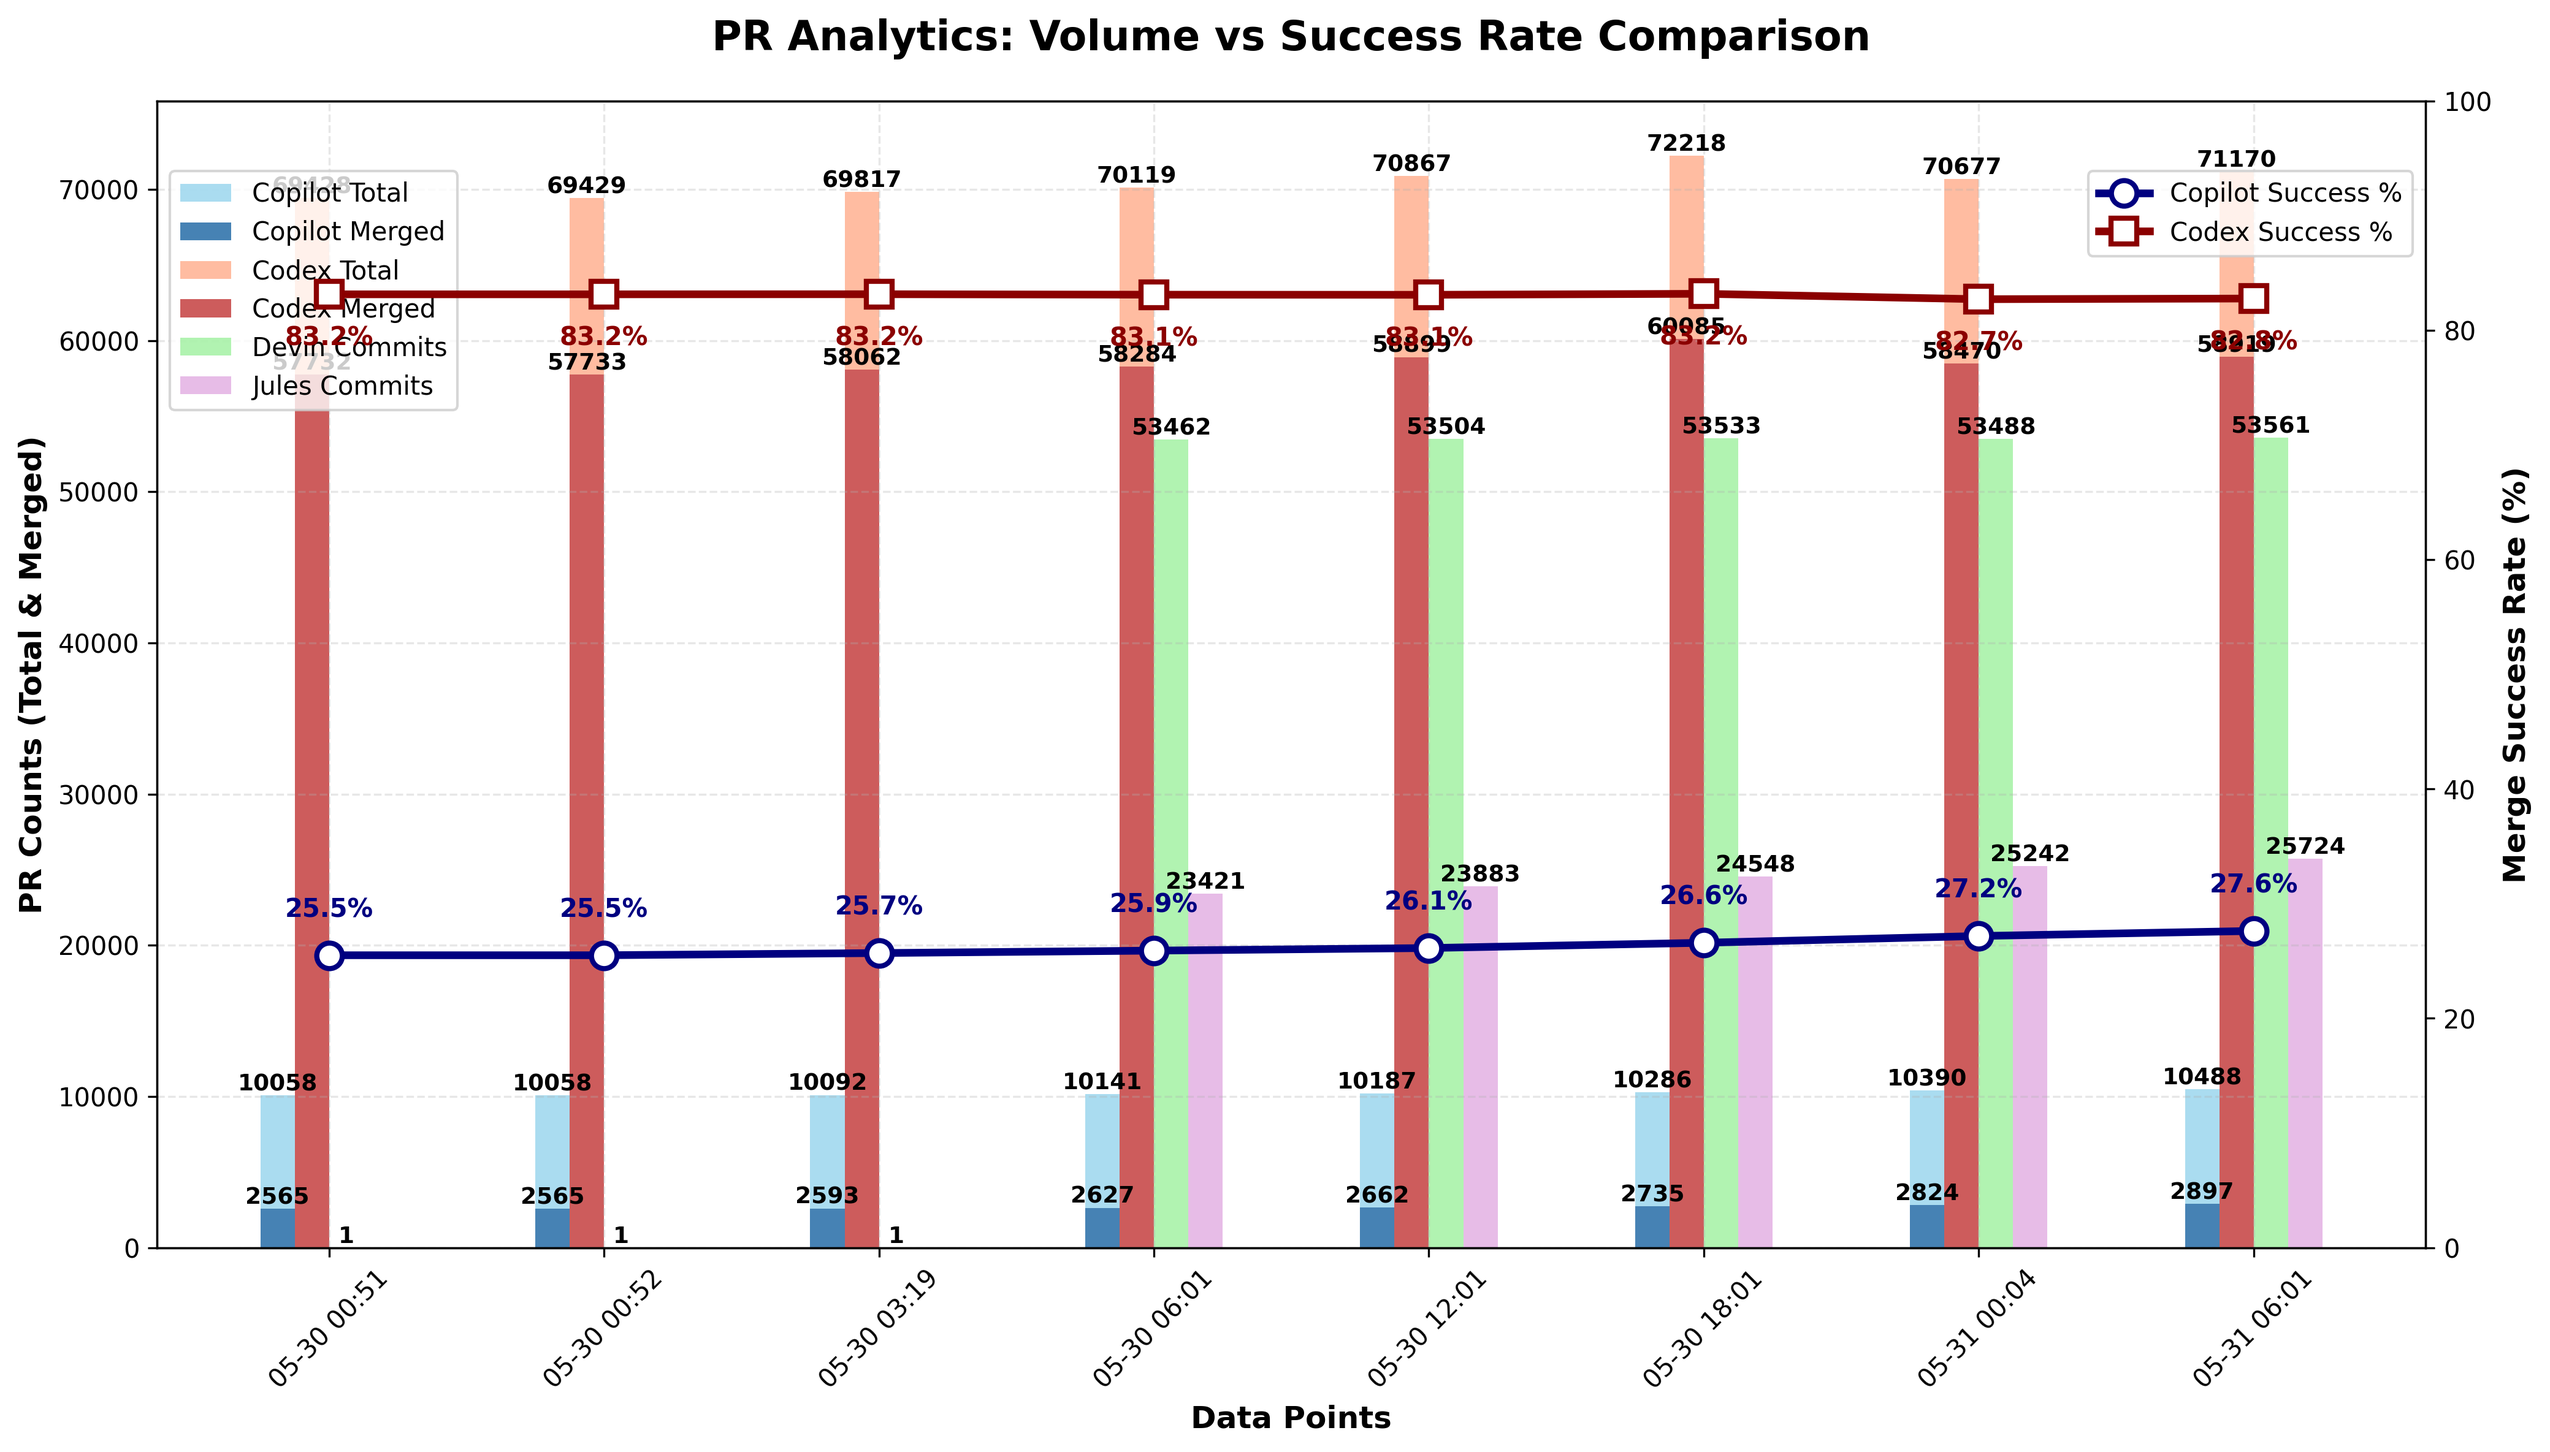
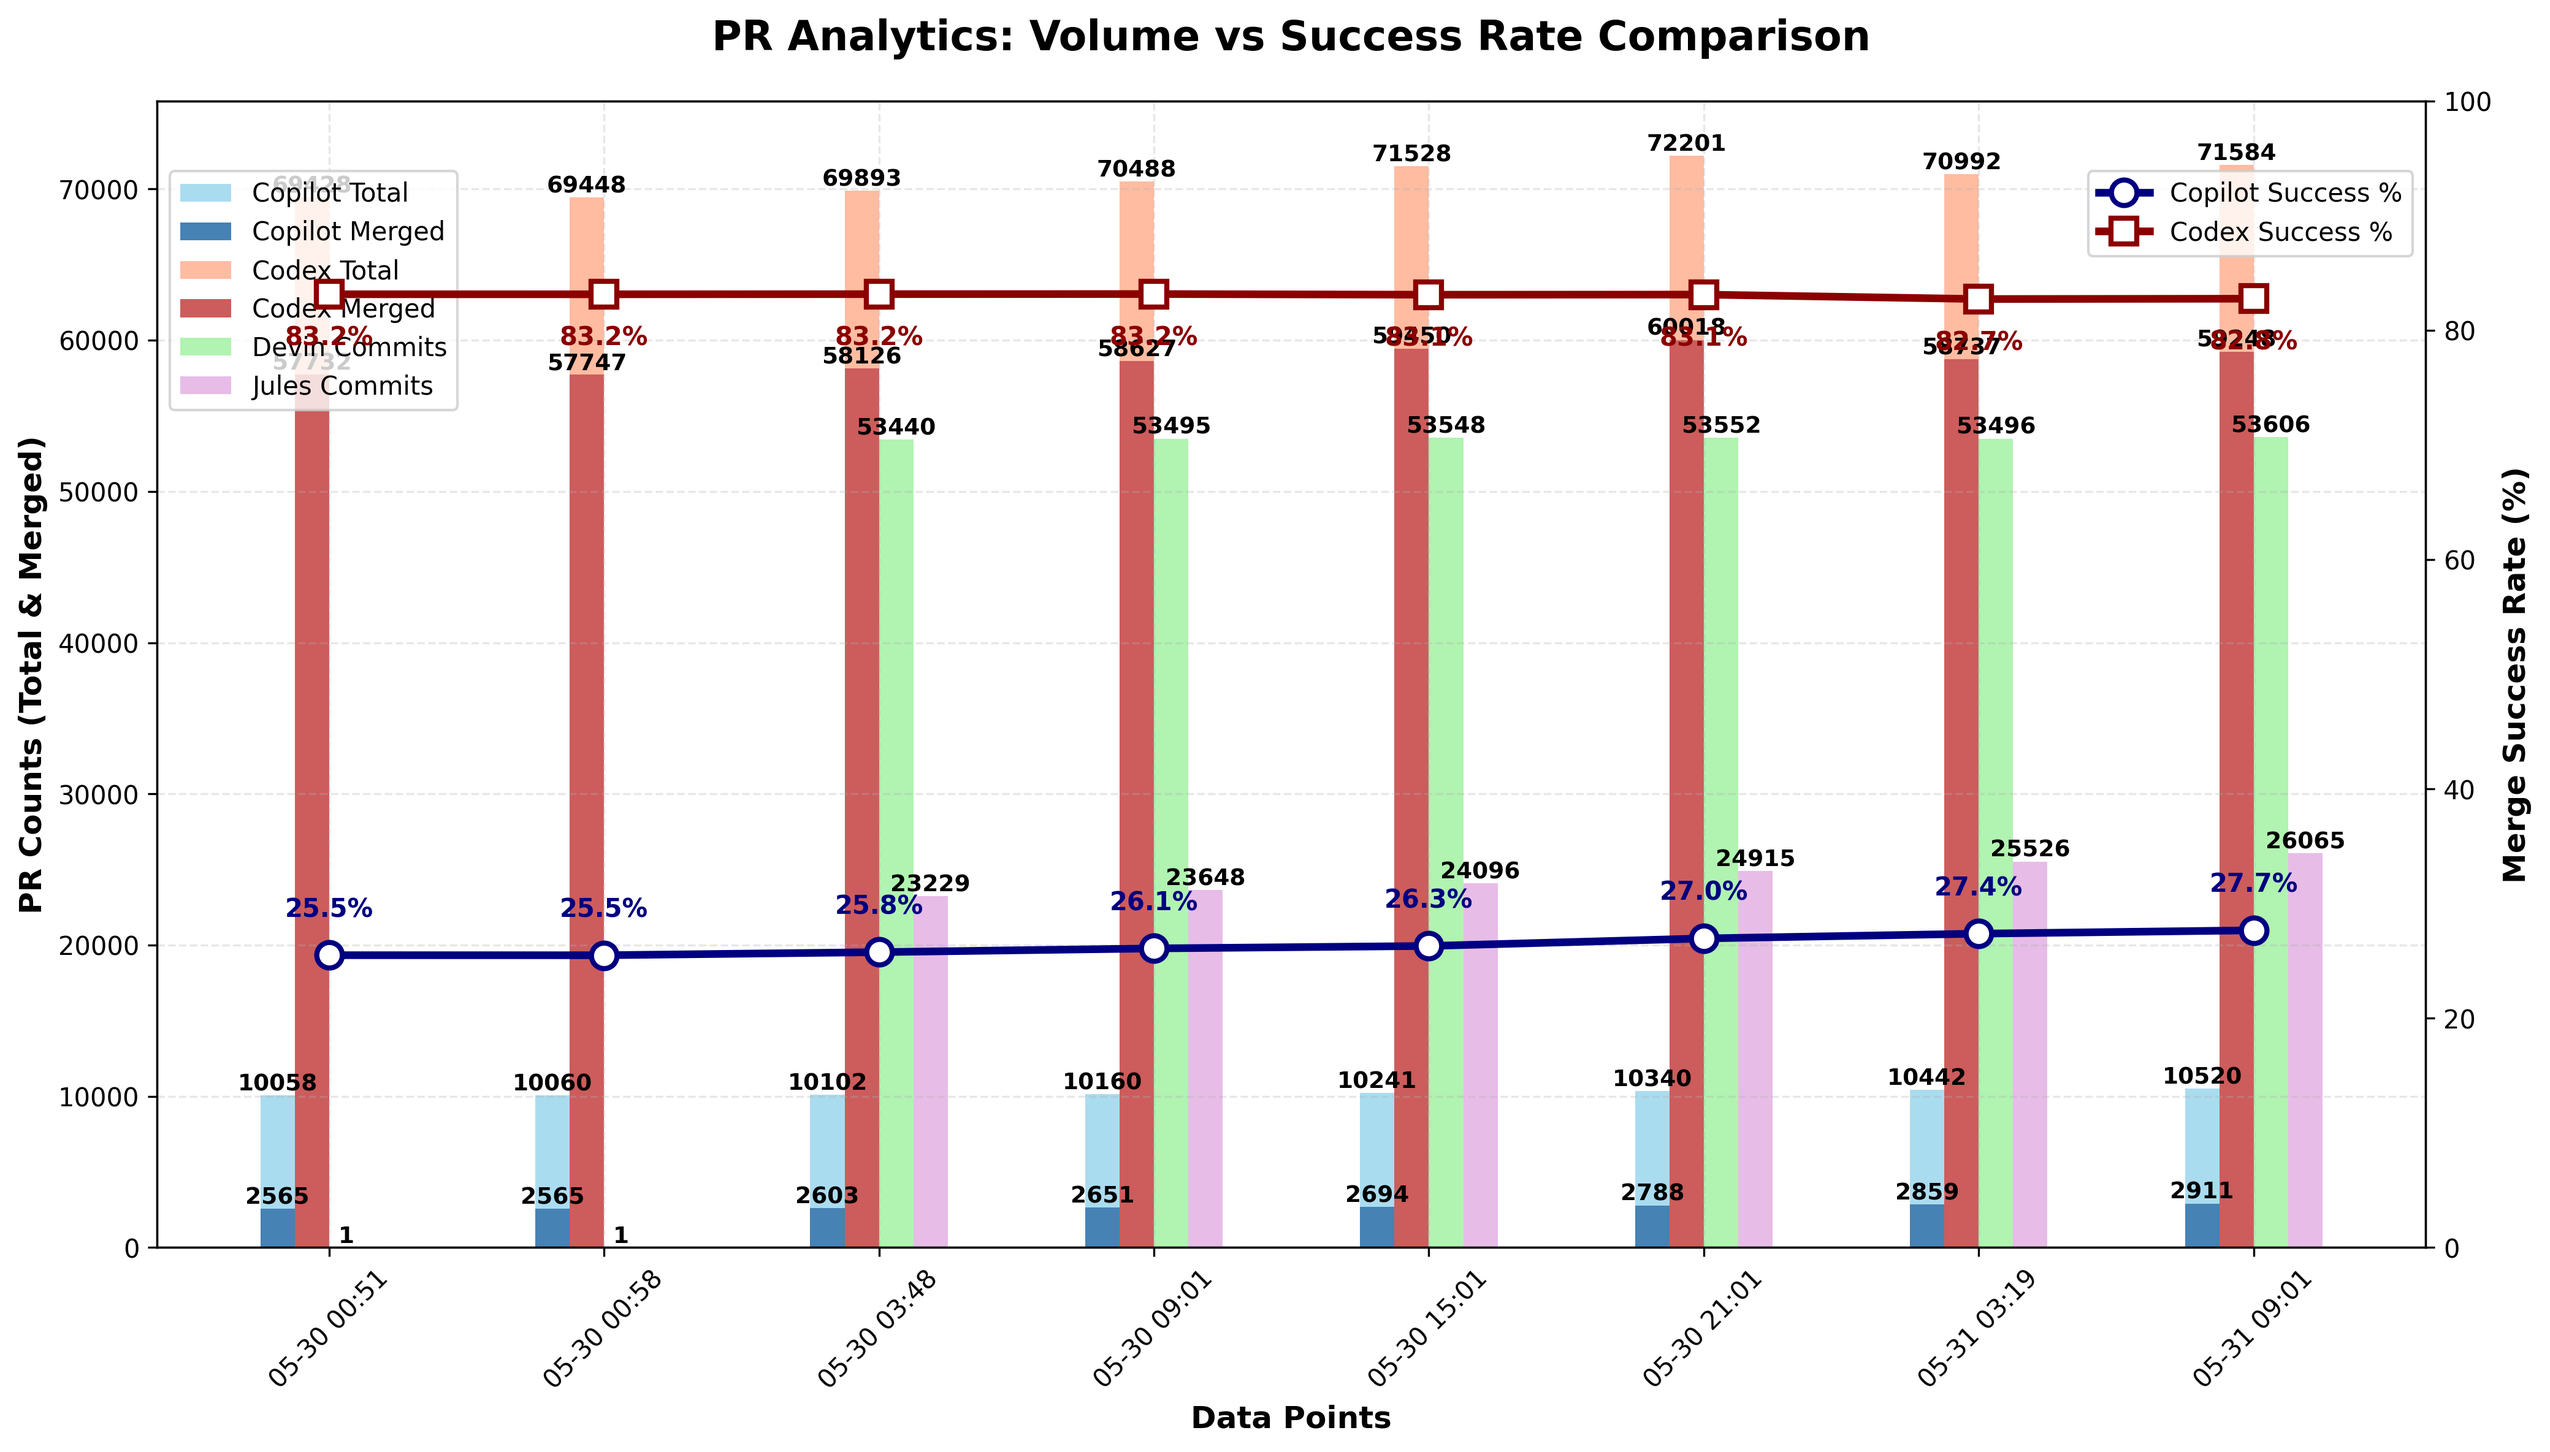
chore: update PR‑approval chart

diff --git a/docs/index.html b/docs/index.html
@@ -61,6 +61,7 @@
                         <td>N/A</td>
                         <td>N/A</td>
                         <td>N/A</td>
+                        <td>N/A</td>
                     </tr>
                     <tr>
                         <td>Codex</td>
@@ -80,27 +81,28 @@
                         <td>N/A</td>
                         <td>N/A</td>
                         <td>N/A</td>
+                        <td>N/A</td>
                     </tr>
                 <tr>
                         <td>Devin</td>
                         <td>N/A</td>
                         <td>N/A</td>
                         <td>N/A</td>
-                        <td>53,561</td>
+                        <td>53,606</td>
                     </tr>
                     <tr>
                         <td>Jules</td>
                         <td>N/A</td>
                         <td>N/A</td>
                         <td>N/A</td>
-                        <td>25,724</td>
+                        <td>26,065</td>
                     </tr>
                     </tbody>
             </table>
         </section>
 
         <footer>
-            <p>Last updated: <span id="last-updated">May 31, 2025 06:01 UTC</span></p>
+            <p>Last updated: <span id="last-updated">May 31, 2025 09:01 UTC</span></p>
             <p><a href="https://github.com/aavetis/ai-pr-watcher">View on GitHub</a></p>
         </footer>
     </div>

diff --git a/README.md b/README.md
@@ -19,7 +19,7 @@ Explore the GitHub search queries used:
 
 | Service | Total PRs | Merged PRs | Merge Rate | Total Commits |
 | ------- | --------- | ---------- | ---------- | ------------- |
-| Copilot | 10,488 | 2,897 | 27.62% | N/A           |
-| Codex   | 71,170 | 58,919 | 82.79% | N/A           |
-| Devin   | N/A       | N/A        | N/A        | 53,561 |
-| Jules   | N/A       | N/A        | N/A        | 25,724 |
+| Copilot | 10,520 | 2,911 | 27.67% | N/A           |
+| Codex   | 71,584 | 59,248 | 82.77% | N/A           |
+| Devin   | N/A       | N/A        | N/A        | 53,606 |
+| Jules   | N/A       | N/A        | N/A        | 26,065 |
